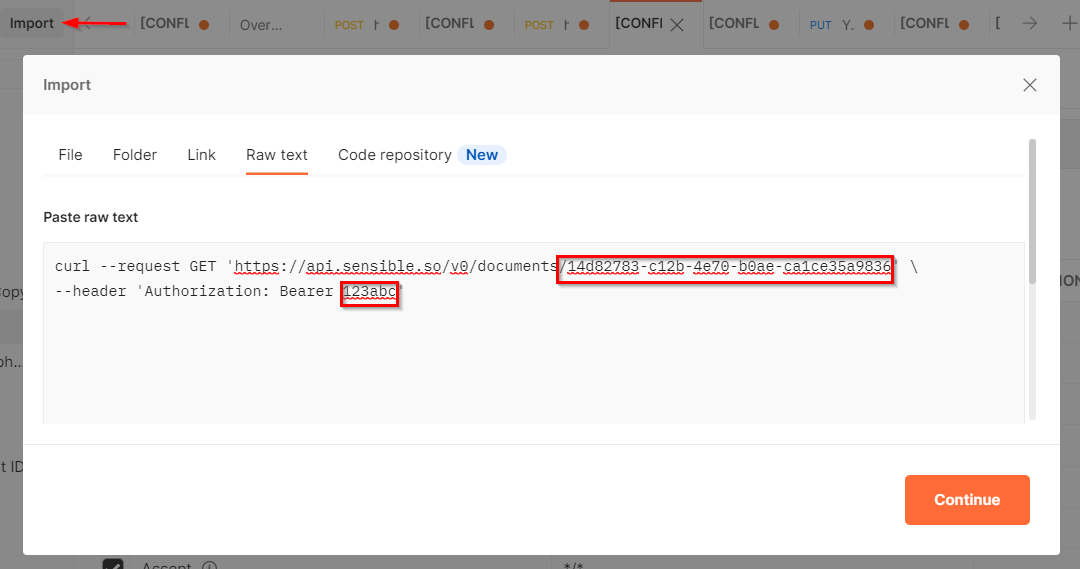
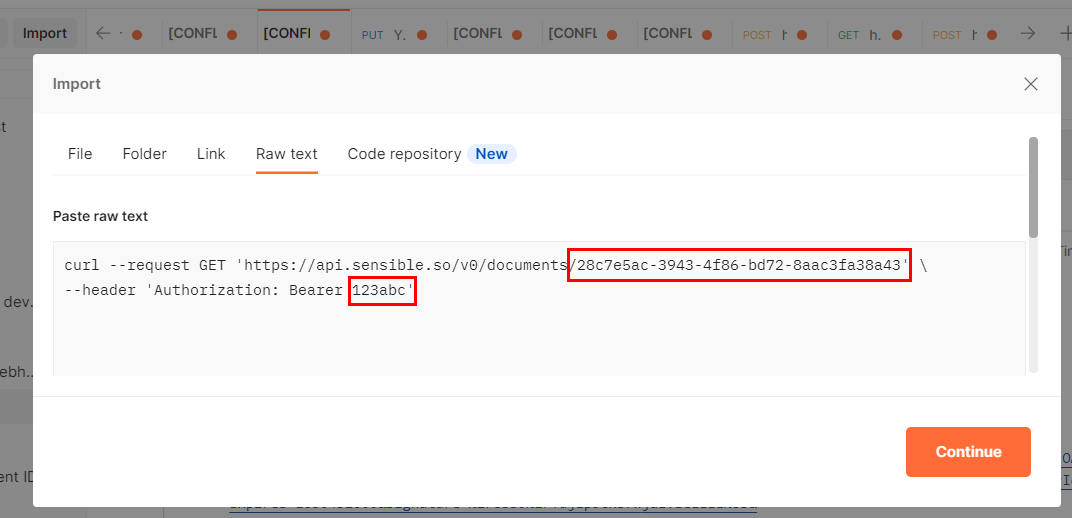
maintenance updates

diff --git a/readme-sync/v0/welcome/100 - quickstart.md b/readme-sync/v0/welcome/100 - quickstart.md
@@ -416,45 +416,87 @@ Integrate with your application
 
 When you're satisfied with your config, use the [Sensible API](https://docs.sensible.so/reference) to integrate with your application. 
 
-**Test the extraction API**
+Test the extraction API
+----
 
-First, make sure you can extract data using the config and PDF you created in previous steps:
+To try out the [extract_from_url](https://sensiblehq.readme.io/reference#provide-a-download-url) endpoint, let's use the config you just created and the example PDF hosted in GitHub:
 
-1. In your local file system, locate the the example [generic car insurance quote](https://github.com/sensible-hq/sensible-docs/blob/main/readme-sync/assets/v0/pdfs/auto_insurance_anyco_golden.pdf) you downloaded in a previous step. For this example, use something like this to extract data:
+1. Copy the following code sample and replace YOUR_API_KEY with your API key:
 
-```curl
-curl --request POST \
-  --url https://api.sensible.so/v0/extract/auto_insurance_quote \
-  --header 'Authorization: Bearer YOUR_API_KEY' \
-  --header 'Content-Type: application/pdf' \
-  --data-binary '@/PATH_TO_DOWNLOADED_PDF/auto_insurance_anyco_golden.pdf'
+   ```json
+   curl --request POST 'https://api.sensible.so/v0/extract_from_url/auto_insurance_quote' \
+   --header 'Authorization: Bearer YOUR_API_KEY' \
+   --header 'Content-Type: application/json' \
+   --data-raw '{"document_url":"https://github.com/sensible-hq/sensible-docs/raw/main/readme-sync/assets/v0/pdfs/auto_insurance_anyco_golden.pdf"}'
+   ```
+
+   
+
+2. In the Postman desktop app, click **Import**, select **Raw text**, and paste in the code sample:
+
+   ![Click to enlarge](https://raw.githubusercontent.com/sensible-hq/sensible-docs/main/readme-sync/assets/v0/images/final/api_quickstart_postman_1.png)
+
+3. Click **Send**, and you should see a response like:
+
+   ```json
+   {
+       "id": "14d82783-c12b-4e70-b0ae-ca1ce35a9836",
+       "created": "2021-06-15T16:29:27.875Z",
+       "status": "WAITING",
+       "type": "auto_insurance_quote",
+       "validation_summary": {
+           "fields": 0,
+           "fields_present": 0,
+           "errors": 0,
+           "warnings": 0,
+           "skipped": 0
+       }
+   }
+   ```
+
+**Note:** You don't have to specify the config you created (`anyco`) in this call. Sensible looks at all the configs for the document type you made in this quickstart (`auto_insurance_quote`), and **automatically** chooses the one that fits best!
+
+Retrieve extraction
+----
+
+ To retrieve the extraction results for the sample PDF, you have two options:
+
+- Use the `/documents` endpoint. See the following steps.
+- Use a webhook. See [Try a webhook](doc:api-tutorial-webhook).
+
+
+To retrieve the extraction results with the  `/documents` endpoint, take the following steps:
+
+
+1. In a previous step on this page, you got back a result that included an extraction id:
+
+   ```json
+   {
+       "id": "14d82783-c12b-4e70-b0ae-ca1ce35a9836"
+   }
+   ```
+   
+   
+   
+2. Copy the document extraction `id` from that response. You'll use it to download the PDF extraction.
+
+3. Copy the following code sample and replace YOUR_EXTRACTION_ID and YOUR_API_KEY:
+
+```json
+curl --request GET 'https://api.sensible.so/v0/documents/YOUR_EXTRACTION_ID' \
+--header 'Authorization: Bearer YOUR_API_KEY'
 ```
 
-2. **Important!** Remember to click **Publish** in the Sensible app to publish your config to production, or this request won't work:  
+3. In the Postman desktop app, click **Import**, select **Raw text**, and paste in the code sample:
 
-![Click to enlarge](https://raw.githubusercontent.com/sensible-hq/sensible-docs/main/readme-sync/assets/v0/images/final/quickstart_publish_config.png).
+![Click to enlarge](https://raw.githubusercontent.com/sensible-hq/sensible-docs/main/readme-sync/assets/v0/images/final/api_quickstart_postman_2.png)
 
-3. For an easy way to run this cURL request, download the [Postman](https://www.postman.com/) desktop app. 
-
-4. Copy the previous code sample.  Replace `YOUR_API_KEY` with your API key.
-
-5. In the Postman desktop app, click **Import**, select **Raw text**, and paste in the code sample:
-   
-   ![Click to enlarge](https://raw.githubusercontent.com/sensible-hq/sensible-docs/main/readme-sync/assets/v0/images/final/quickstart_postman_import.png)
-
-6. Correct the path to your downloaded PDF: in the request, click the **Body** tab, select **binary**, then click **Select file** and select your PDF:
-   
-
-![Click to enlarge](https://raw.githubusercontent.com/sensible-hq/sensible-docs/main/readme-sync/assets/v0/images/final/quickstart_postman_1.png)
-
-    
-
-7. Click **Send**, and you should see a response like this:
+4. Click **Send**. The response looks something like the following:
 
 ```json
 {
-    "id": "b0ac180d-55d2-4946-80c0-a87243319746",
-    "created": "2021-05-20T18:02:37.019Z",
+    "id": "14d82783-c12b-4e70-b0ae-ca1ce35a9836",
+    "created": "2021-08-31T17:22:33.984Z",
     "status": "COMPLETE",
     "type": "auto_insurance_quote",
     "configuration": "anyco",
@@ -481,7 +523,8 @@ curl --request POST \
         "errors": 0,
         "warnings": 0,
         "skipped": 0
-    }
+    },
+    "download_url": "https://sensible-so-document-type-bucket-prod-us-west-2.s3.us-west-2.amazonaws.com/sensible/fc3484c5-3f35-4129-bb29-0ad1291ee9f8/EXTRACTION/14d82783-c12b-4e70-b0ae-ca1ce35a9836.pdf?AWSAccessKeyId=ASIAR355P7ASRMWOLX6W&Expires=1623790786&Signature=REDACTED-amz-security-token=REDACTED"
 }
 ```
 

diff --git a/readme-sync/v0/api/100 - api-tutorial/300 - api-tutorial-webhook.md b/readme-sync/v0/api/100 - api-tutorial/300 - api-tutorial-webhook.md
@@ -36,6 +36,45 @@ Check the webhook response
 ====
 
 5. Click **Send** in Postman.
-6. Visit your unique URL at webhook.site to verify there is a response like the following: 
+6. Visit your unique URL at webhook.site to verify there is a response at the URL like the following: 
 
-![Click to enlarge](https://raw.githubusercontent.com/sensible-hq/sensible-docs/main/readme-sync/assets/v0/images/final/api_quickstart_webhook_3.png)
+```
+{
+  "id": "4dee64e9-4b08-4c2c-baef-02649b40b488",
+  "created": "2021-08-31T17:24:43.185Z",
+  "status": "COMPLETE",
+  "type": "auto_insurance_quote",
+  "configuration": "anyco",
+  "webhook": {
+    "payload": "some info you want to include that is additional to the default payload, which includes extraction id, type, and parsed doc",
+    "url": "https://webhook.site/b37c53a3-fb75-48d6-df696ebd1388"
+  },
+  "parsed_document": {
+    "policy_period": {
+      "type": "string",
+      "value": "April 14, 2021 - Oct 14, 2021"
+    },
+    "comprehensive_premium": {
+      "source": "$150",
+      "value": 150,
+      "unit": "$",
+      "type": "currency"
+    },
+    "policy_number": {
+      "type": "string",
+      "value": "123456789"
+    }
+  },
+  "validations": [],
+  "validation_summary": {
+    "fields": 3,
+    "fields_present": 3,
+    "errors": 0,
+    "warnings": 0,
+    "skipped": 0
+  },
+  "download_url": "https://sensible-so-document-type-bucket-prod-us-west-2.s3.us-west-2.amazonaws.com/sensible/fc3484c5-3f35-4129-bb29-0ad1291ee9f8/EXTRACTION/14d82783-c12b-4e70-b0ae-ca1ce35a9836.pdf?AWSAccessKeyId=ASIAR355P7ASRMWOLX6W&Expires=1623790786&Signature=REDACTED-amz-security-token=REDACTED",
+  "payload": "some info you want to include that is additional to the default payload, which includes extraction id, type, and parsed doc"
+}
+```
+

diff --git a/readme-sync/v0/api/100 - api-tutorial/200 - api-tutorial-async-1.md b/readme-sync/v0/api/100 - api-tutorial/200 - api-tutorial-async-1.md
@@ -69,17 +69,16 @@ Retrieve extraction
 To retrieve the extraction results with the  `/documents` endpoint, take the following steps:
 
 
-1. In a previous step on this page, you got back a result that included information like this:
+1. In a previous step on this page, you got back a result that included and extraction ID:
 
    ```json
    {
-       "id": "14d82783-c12b-4e70-b0ae-ca1ce35a9836",
-       "created": "2021-06-16T16:22:56.576Z",
-       "status": "WAITING",
+       "id": "14d82783-c12b-4e70-b0ae-ca1ce35a9836"
+   }
    ```
-
    
-
+   
+   
 2. Copy the document extraction `id` from that response. You'll use it to download the PDF extraction.
 
 3. Copy the following code sample and replace YOUR_EXTRACTION_ID and YOUR_API_KEY:
@@ -97,8 +96,8 @@ curl --request GET 'https://api.sensible.so/v0/documents/YOUR_EXTRACTION_ID' \
 
 ```json
 {
-    "id": "b0ac180d-55d2-4946-80c0-a87243319746",
-    "created": "2021-05-20T18:02:37.019Z",
+    "id": "14d82783-c12b-4e70-b0ae-ca1ce35a9836",
+    "created": "2021-08-31T17:22:33.984Z",
     "status": "COMPLETE",
     "type": "auto_insurance_quote",
     "configuration": "anyco",

diff --git a/readme-sync/v0/api/100 - api-tutorial/210 - api-tutorial-async-2.md b/readme-sync/v0/api/100 - api-tutorial/210 - api-tutorial-async-2.md
@@ -109,15 +109,14 @@ Retrieve extraction
 To retrieve the extraction results with the  `/documents` endpoint, take the following steps:
 
 
-1. In a previous step on this page,  you generated a URL and got back a response that included an ID:
+1. In a previous step on this page,  you generated a URL and got back a response that included an extraction ID:
 
    ```json
    {
-       "id": "14d82783-c12b-4e70-b0ae-ca1ce35a9836",
-       "created": "2021-06-16T16:22:56.576Z",
-       "status": "WAITING",
+       "id": "28c7e5ac-3943-4f86-bd72-8aac3fa38a43"
+   }
    ```
-
+   
 2. Copy the document extraction `id` from that response.
 
 3. Copy the following code sample and replace YOUR_EXTRACTION_ID and YOUR_API_KEY:
@@ -135,8 +134,8 @@ curl --request GET 'https://api.sensible.so/v0/documents/YOUR_EXTRACTION_ID' \
 
 ```json
 {
-    "id": "b0ac180d-55d2-4946-80c0-a87243319746",
-    "created": "2021-05-20T18:02:37.019Z",
+    "id": "28c7e5ac-3943-4f86-bd72-8aac3fa38a43",
+    "created": "2021-06-16T16:22:56.576Z",
     "status": "COMPLETE",
     "type": "auto_insurance_quote",
     "configuration": "anyco",
